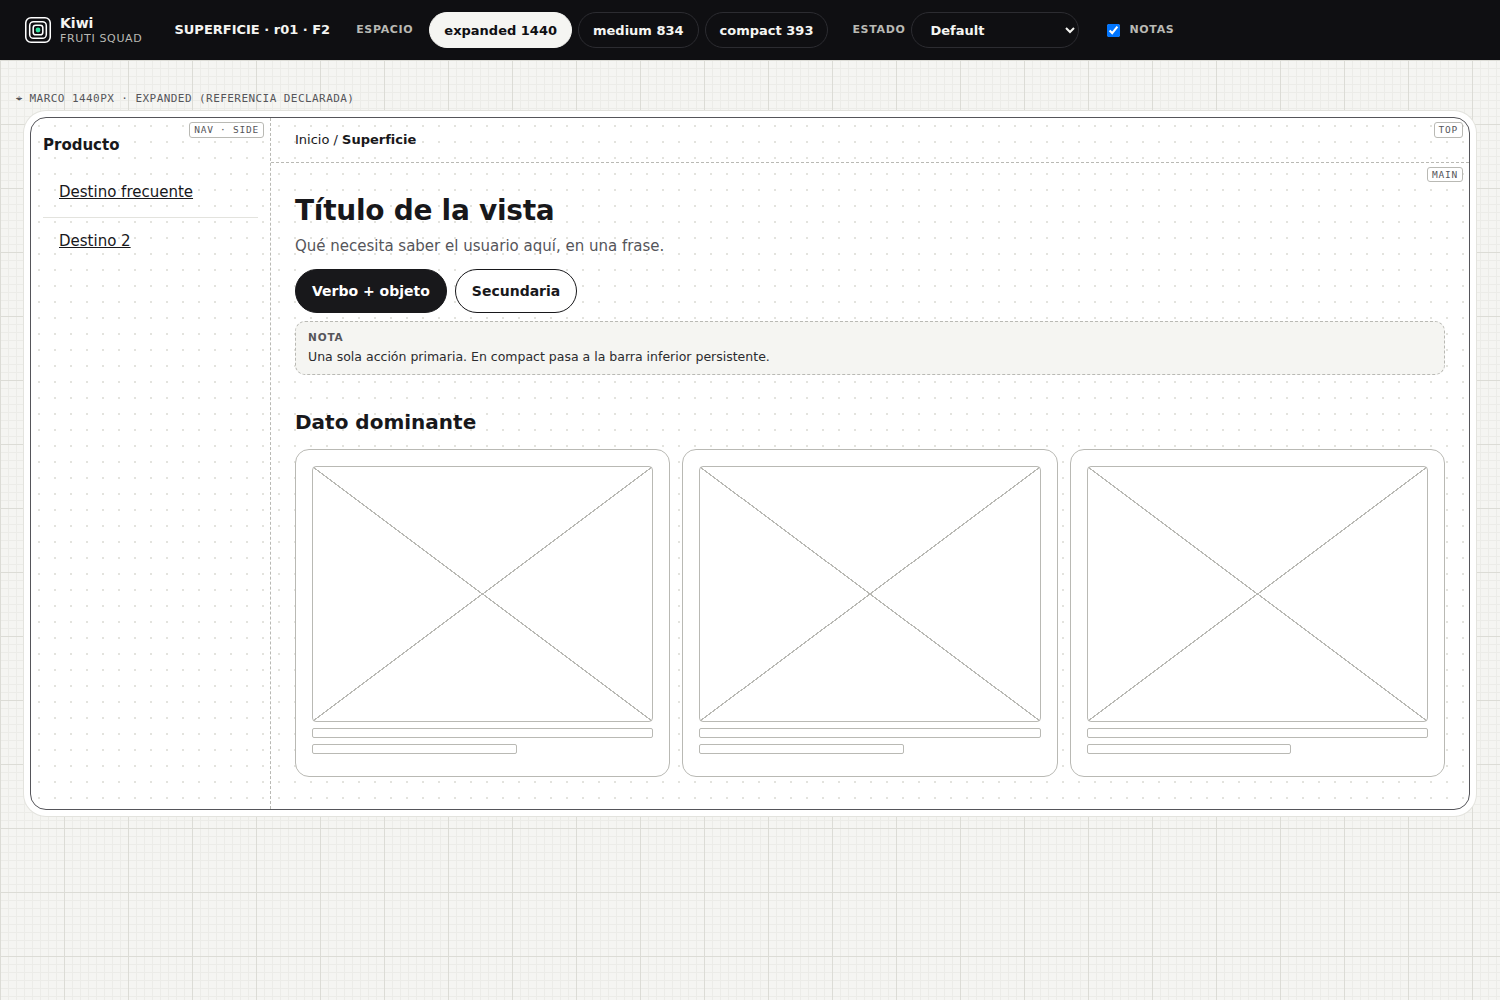
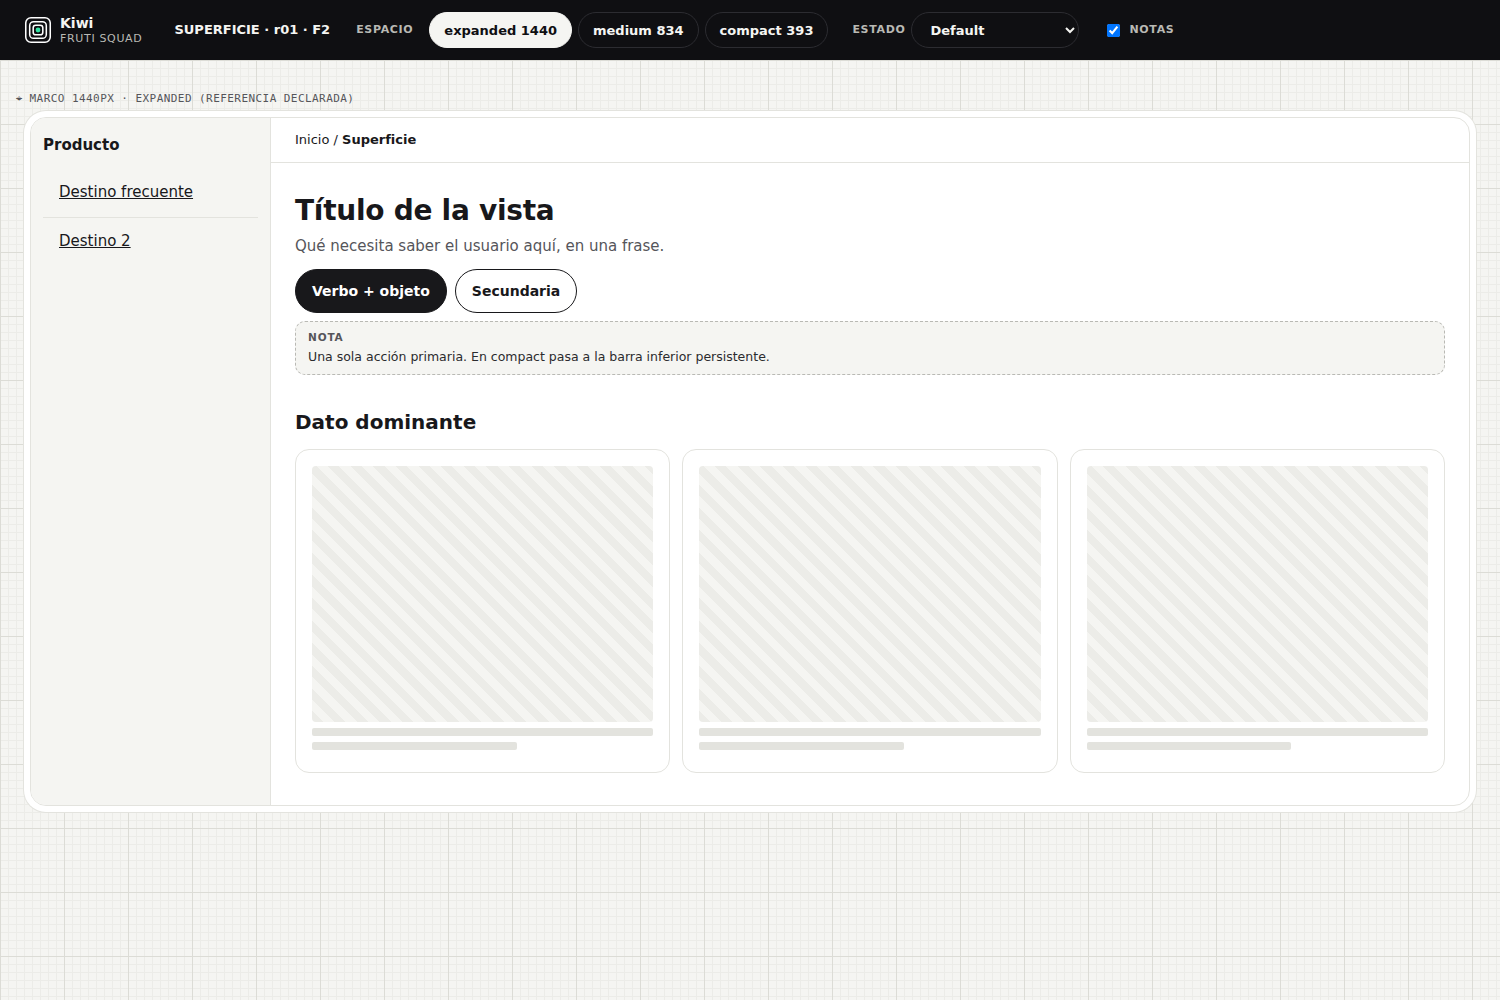
kiwi: la cuadrícula de laboratorio queda solo en el escenario
El contenido del marco vuelve a su estilo anterior; el fondo donde se
renderiza conserva la cuadrícula de libreta.

Claude-Session: https://claude.ai/code/session_0139TfWapUP1QyepGUZapXLH

Changed region(s): [[0.184, 0.713, 0.9507, 0.775], [0.9507, 0.124, 0.9813, 0.186], [0.1227, 0.124, 0.184, 0.155]]

diff --git a/agentes/kiwi/assets/wireframe-kit.css b/agentes/kiwi/assets/wireframe-kit.css
@@ -105,32 +105,16 @@ body.wf{margin:0;font:15px/1.5 var(--wf-font);color:var(--wf-g9);background:var(
 html[lang|="en"] .wf-note::before{content:"Note"}
 body.wf-no-notes .wf-note{display:none}
 
-/* Esqueleto de laboratorio: cuadrícula de libreta, piezas en línea, rótulos técnicos.
-   Todo en neutros; los rótulos de región son anotación y se ocultan con «Notas». */
+/* Escenario de laboratorio: solo el fondo donde se renderiza el marco (cuadrícula de libreta).
+   El contenido del marco no cambia. Solo neutros. */
 :root{--wf-grid-minor:#ecece8;--wf-grid-major:#dcdcd6}
 .wf-stage{min-height:calc(100vh - 60px);background-color:var(--wf-g1);
   background-image:linear-gradient(var(--wf-grid-major) 1px,transparent 1px),linear-gradient(90deg,var(--wf-grid-major) 1px,transparent 1px),
     linear-gradient(var(--wf-grid-minor) 1px,transparent 1px),linear-gradient(90deg,var(--wf-grid-minor) 1px,transparent 1px);
   background-size:64px 64px,64px 64px,8px 8px,8px 8px}
-.wf-frame{background-color:var(--wf-g0);background-image:radial-gradient(var(--wf-g3) 1px,transparent 1.2px);background-size:16px 16px;border:1px solid var(--wf-g6);box-shadow:0 0 0 6px var(--wf-g0),0 0 0 7px var(--wf-g3)}
+.wf-frame{box-shadow:0 0 0 6px var(--wf-g0),0 0 0 7px var(--wf-g3)}
 .wf-frame-label{font-family:var(--wf-mono);font-weight:500;letter-spacing:.04em}
 .wf-frame-label::before{content:"⌖ ";color:var(--wf-g6)}
-.wf-side{background:transparent;border-right:1px dashed var(--wf-g4);position:relative}
-.wf-top{border-bottom:1px dashed var(--wf-g4);position:relative}
-.wf-main{position:relative}
-.wf-bottom{background:var(--wf-g0);border-top:1px dashed var(--wf-g4)}
-.wf-side::after,.wf-top::after,.wf-main::after,.wf-bottom::after{position:absolute;right:6px;top:4px;font:500 9.5px/1 var(--wf-mono);letter-spacing:.08em;text-transform:uppercase;color:var(--wf-g6);background:var(--wf-g0);border:1px solid var(--wf-g4);border-radius:3px;padding:2px 4px;pointer-events:none}
-.wf-side::after{content:"nav · side"}.wf-top::after{content:"top"}.wf-main::after{content:"main"}.wf-bottom::after{content:"bottom bar";top:-9px}
-body.wf-no-notes .wf-side::after,body.wf-no-notes .wf-top::after,body.wf-no-notes .wf-main::after,body.wf-no-notes .wf-bottom::after{display:none}
-.wf-card,.wf-list,.wf-state{background:transparent;border-color:var(--wf-g4)}
-.wf-card{background:var(--wf-g0)}
-.wf-box{background:transparent;border:1px solid var(--wf-g4)}
-.wf-img{background:linear-gradient(to top right,transparent calc(50% - .6px),var(--wf-g4) calc(50% - .6px),var(--wf-g4) calc(50% + .6px),transparent calc(50% + .6px)),
-  linear-gradient(to bottom right,transparent calc(50% - .6px),var(--wf-g4) calc(50% - .6px),var(--wf-g4) calc(50% + .6px),transparent calc(50% + .6px)),var(--wf-g0);
-  border:1px solid var(--wf-g4)}
-.wf-line{background:transparent;border:1px solid var(--wf-g4);height:10px}
-.wf-skel .wf-line,.wf-skel .wf-img{background:var(--wf-g1);border-style:dashed}
-.wf-input{background:var(--wf-g0)}
 
 /* Modos por espacio */
 @container wf (max-width: 1023px){
